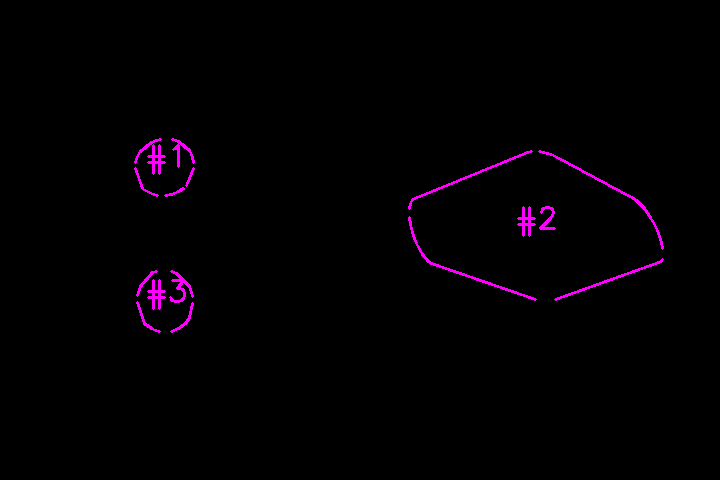
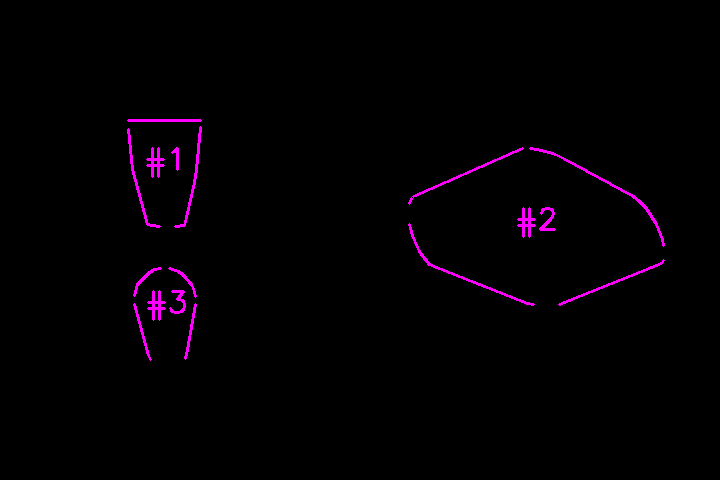
git ignore file and frames folder

diff --git a/processImageConvexity.py b/processImageConvexity.py
@@ -77,7 +77,7 @@ def processImage(img, num):
     color = (255, 0, 255)
     imgContours = img.copy()
 
-    thresh = 75
+    thresh = 35
     # change to easier to deal with black and white image
     ret, thresh = cv2.threshold(img, thresh, 255, cv2.THRESH_BINARY)
 
@@ -128,27 +128,30 @@ def processImage(img, num):
 
 
 def main():
-    dirName = 'frames(20633-20650)';
+    dirName = 'frames20633-20650';
     
     # Get the list of all files in directory tree at given path
     listOfFiles = getListOfFiles(dirName)
 
-    img = cv2.imread("frames20633-20650/scene00001.png", 0)
-    areaList = processImage(img, "1")
-    for a in areaList:
-        print("Convex Area: {}".format(a))
+    # img = cv2.imread("frames20633-20650/scene00001.png", 0)
+    # areaList = processImage(img, "1")
+    # for a in areaList:
+    #     print("Convex Area: {}".format(a))
+    i = 1;
 
-    # for file in listOfFiles:
-    #     img = cv2.imread(file, 0)
-    #     areaList = processImage(img)
-    #     print("Image: {}".format(file))
-    #     for a in areaList:
-    #         print("Convex Area: {}".format(a))
+    for file in listOfFiles:
+        img = cv2.imread(file, 0)
+        areaList = processImage(img, str(i))
+        print("Image: {}".format(file))
+        for a in areaList:
+            print("Convex Area: {}".format(a))
+        i += 1;
 
-    # plt.plot([1,2,3,4])
-    # plt.ylabel('some numbers')
-    # plt.show()
-    # plt.savefig('plots/basic-plot.png')
+
+    plt.plot([1,2,3,4])
+    plt.ylabel('some numbers')
+    plt.show()
+    plt.savefig('plots/basic-plot.png')
     
 
 if __name__ == '__main__':
